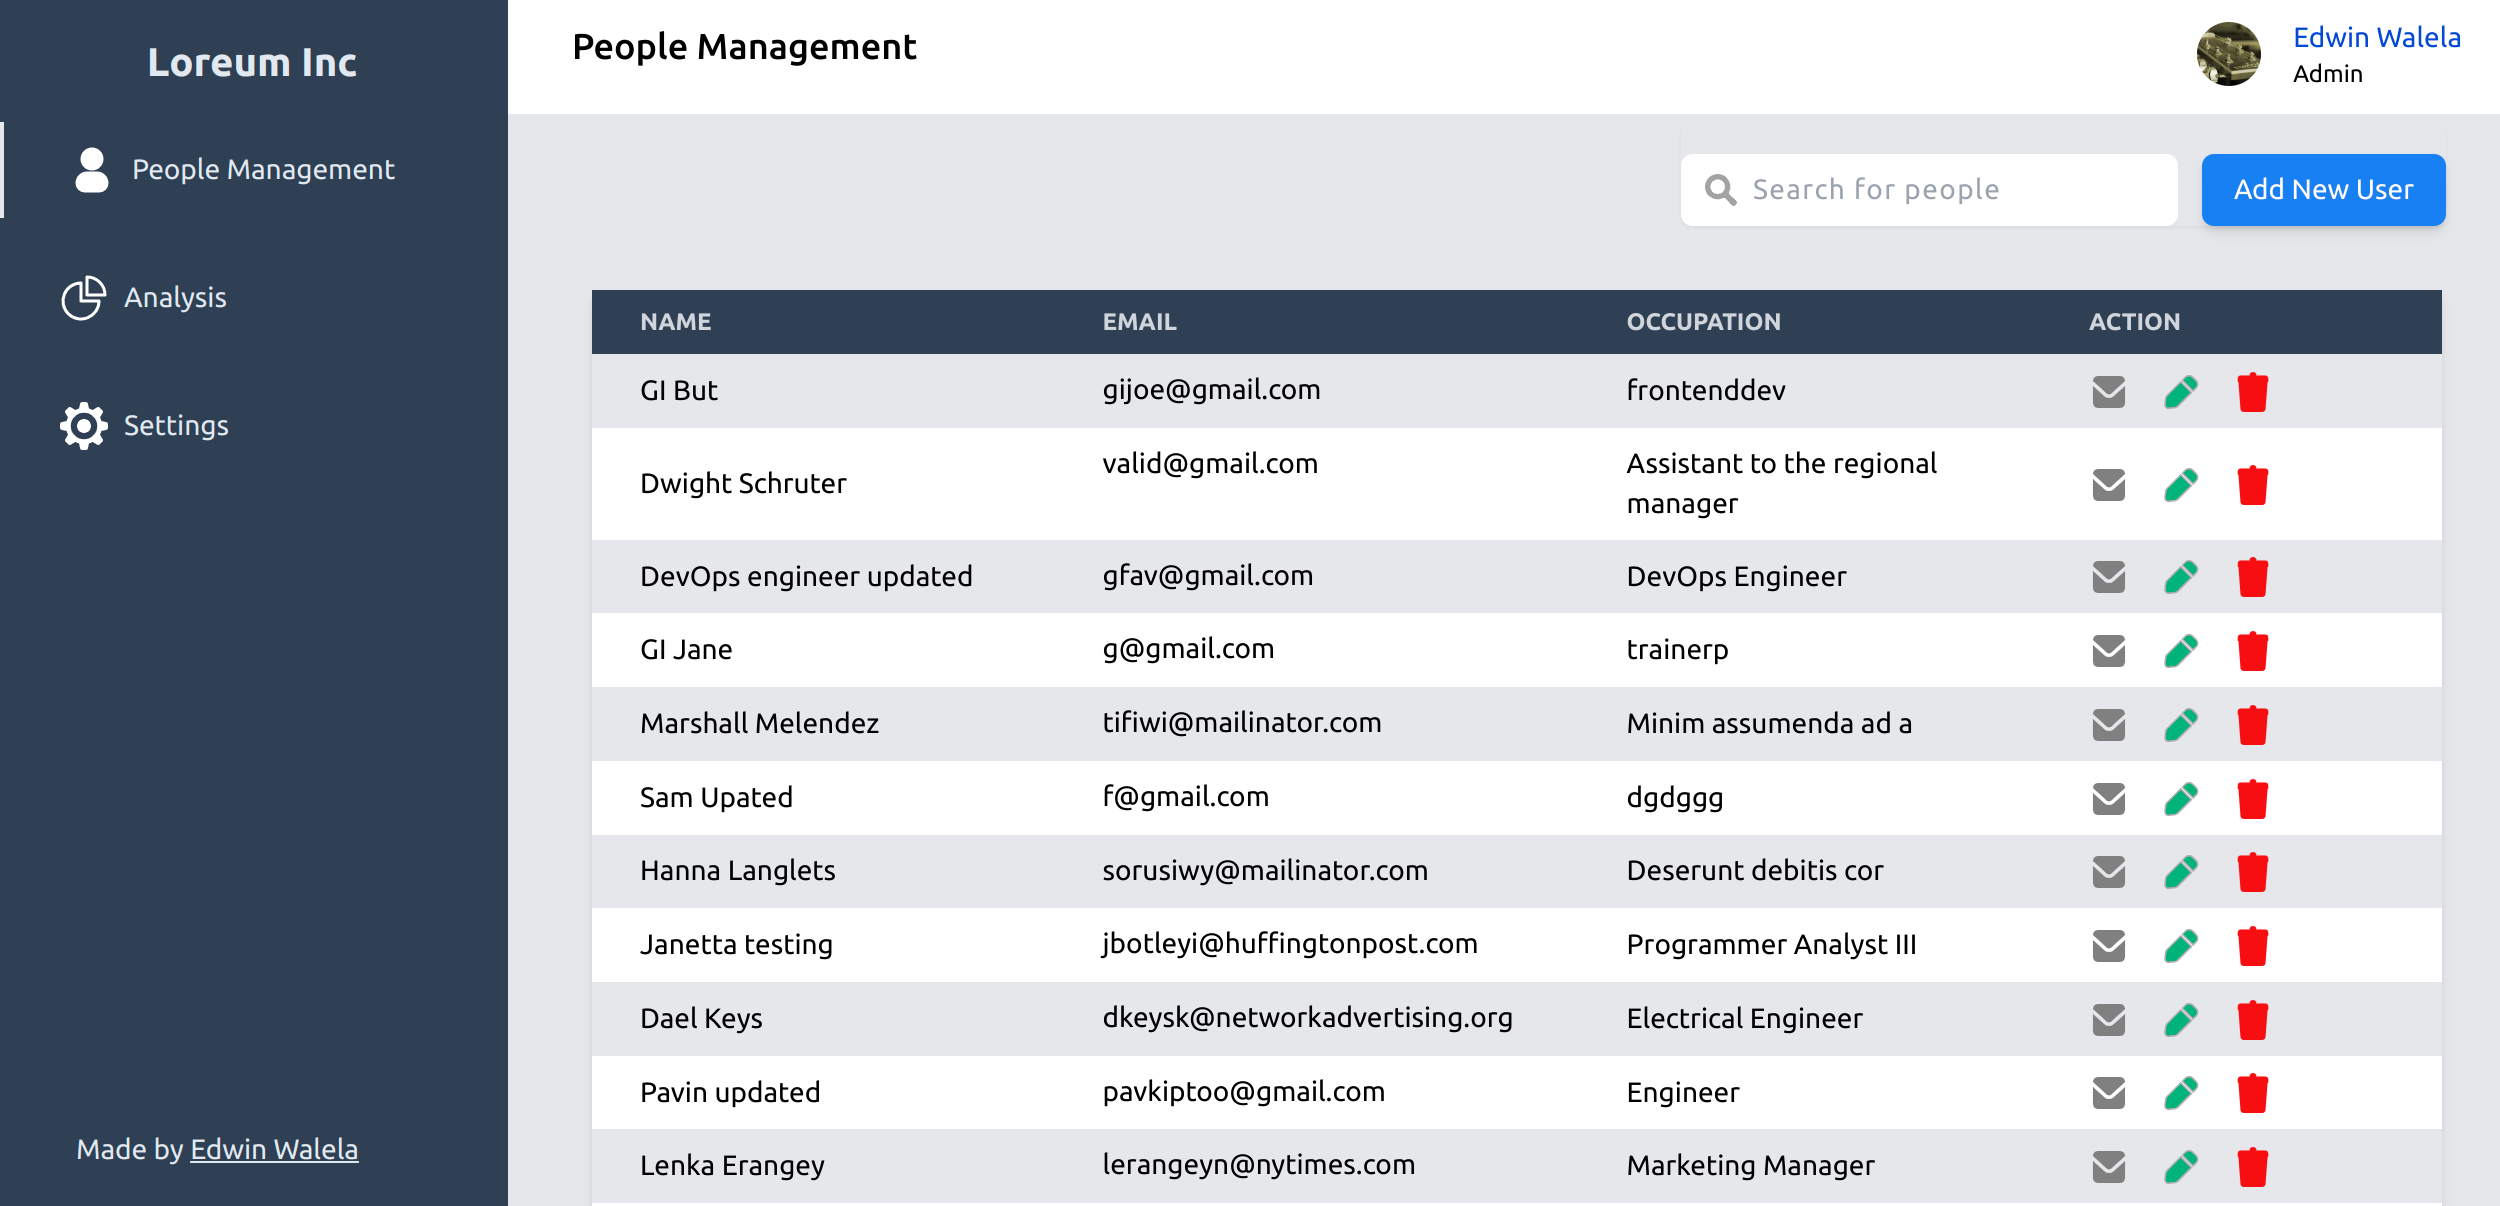
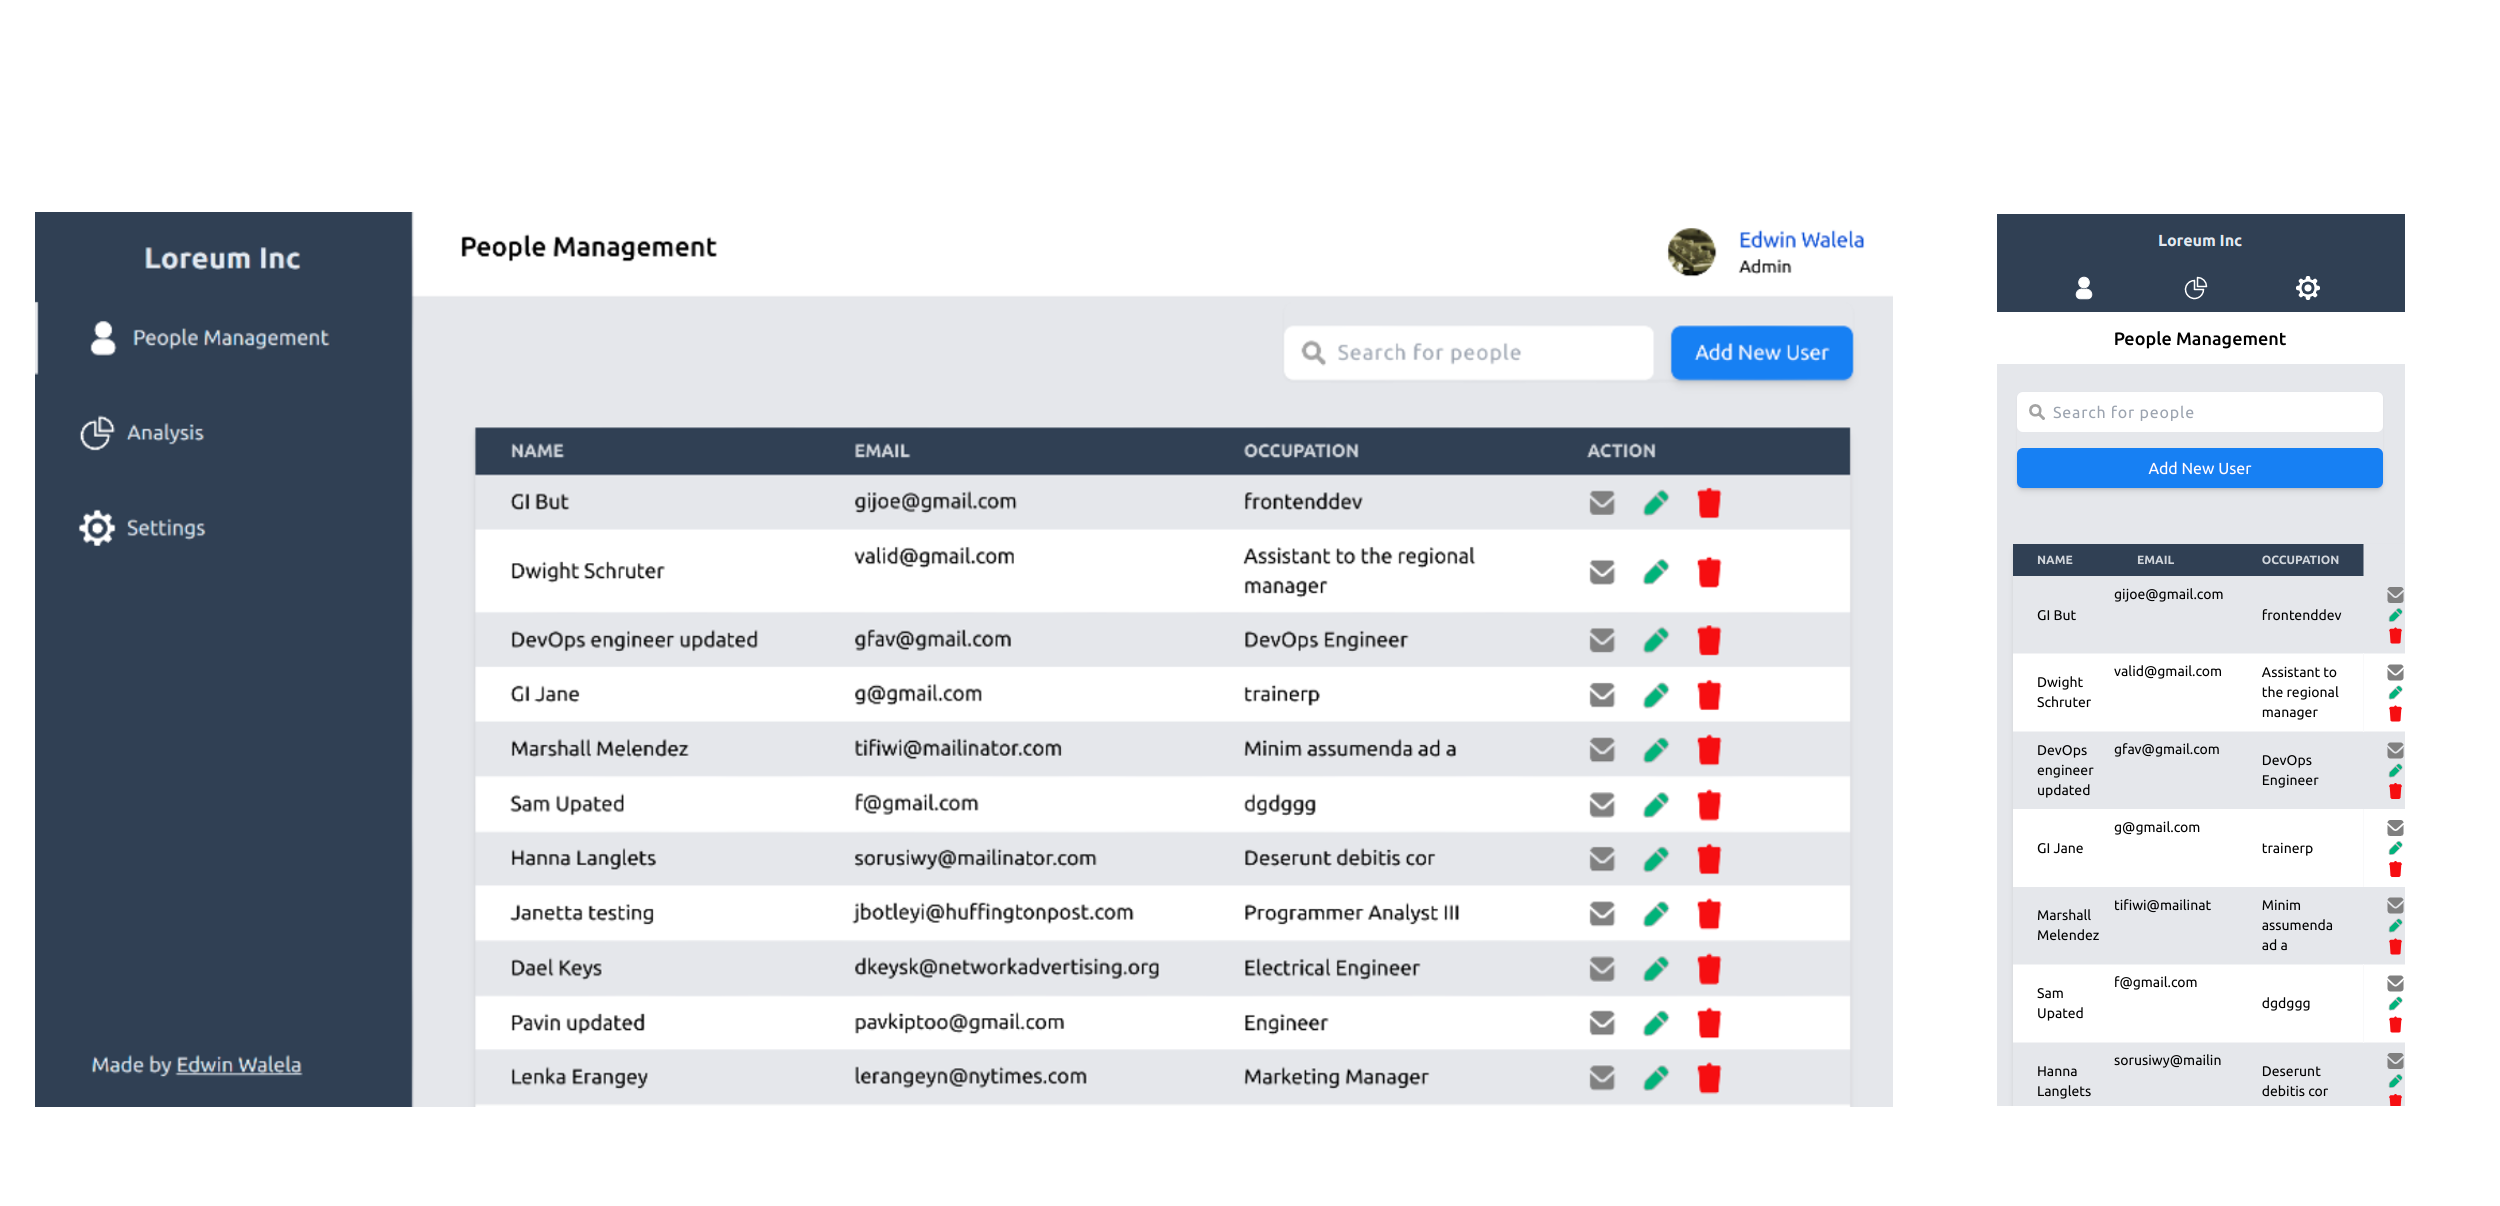
update readme

diff --git a/README.md b/README.md
@@ -8,15 +8,7 @@ Design Inspiration - [Dribbble](https://dribbble.com/shots/14135589-User-Managem
 
 ## Responsive Design
 
-### Desktop
-
-<img src="./docs/landing.png" width=500 style="display:inline"/>
-
-<br/>
-
-### Mobile
-
-<img src="./docs/landing-mobile.png" width=200/>
+<img src="./docs/landing.png" width=1200 style="display:inline"/>
 
 <br/>
 
